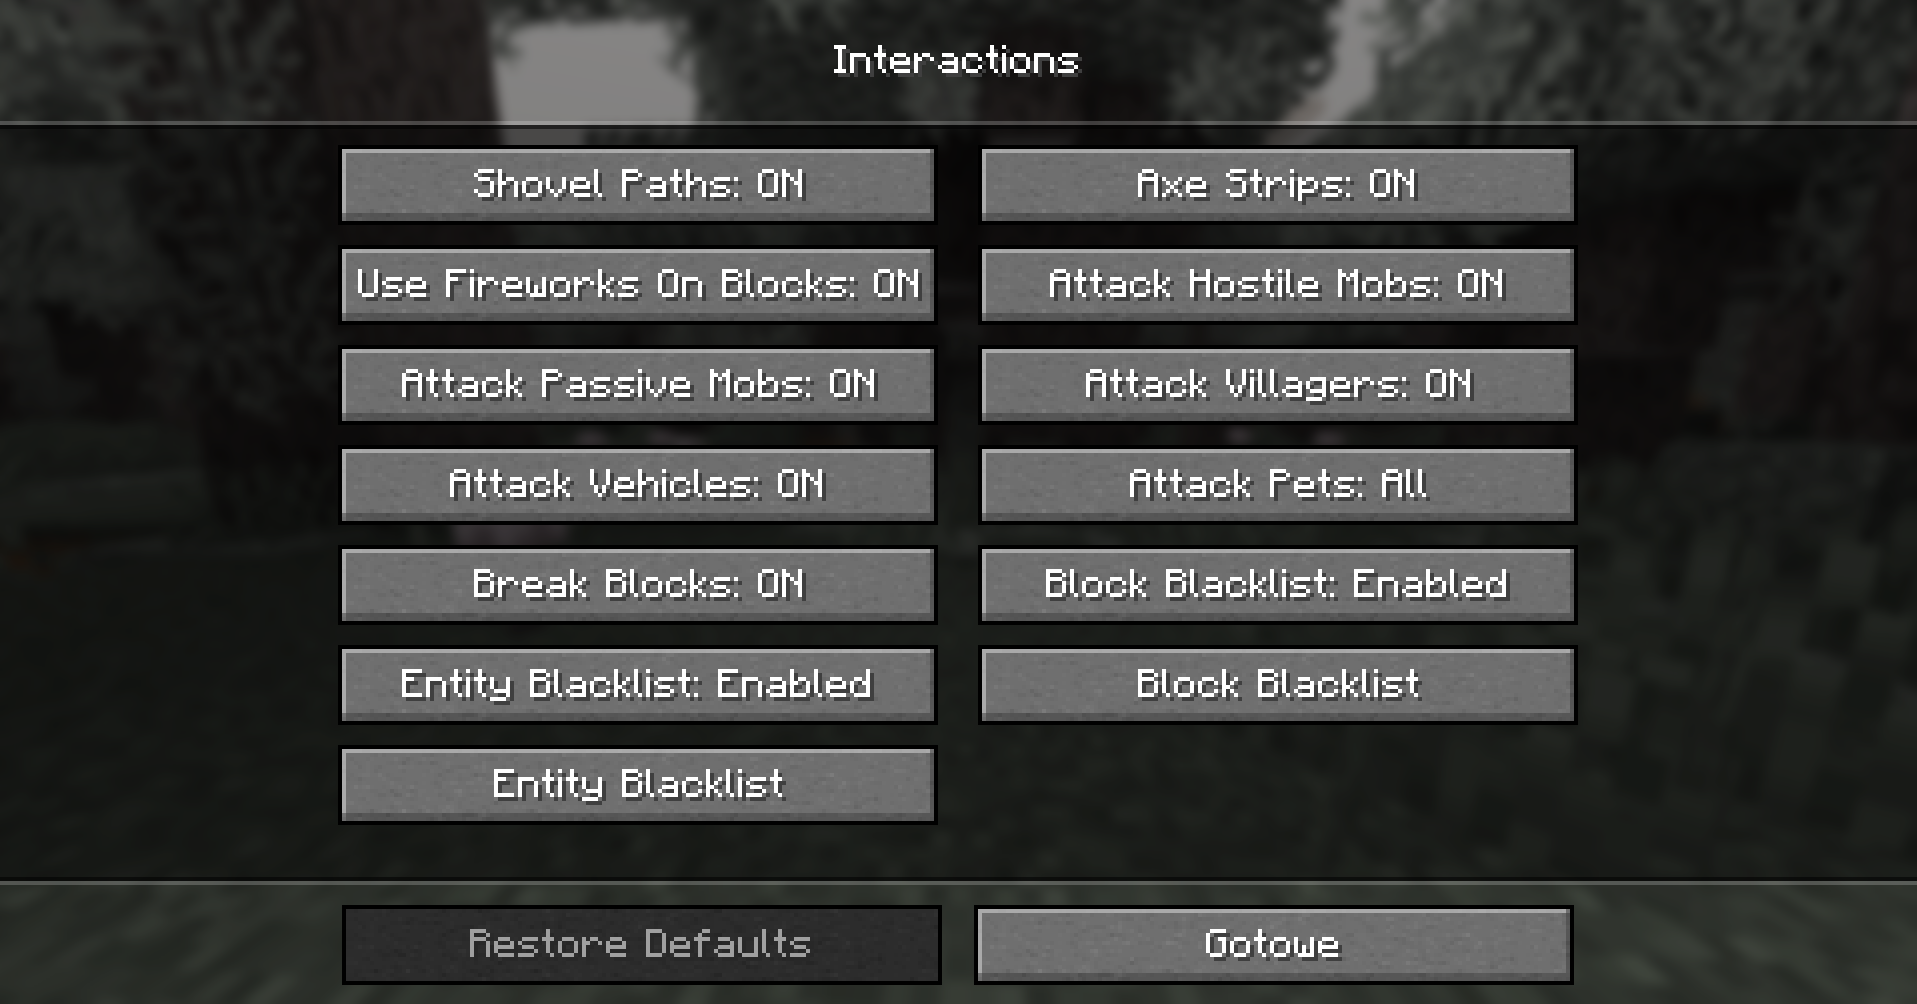
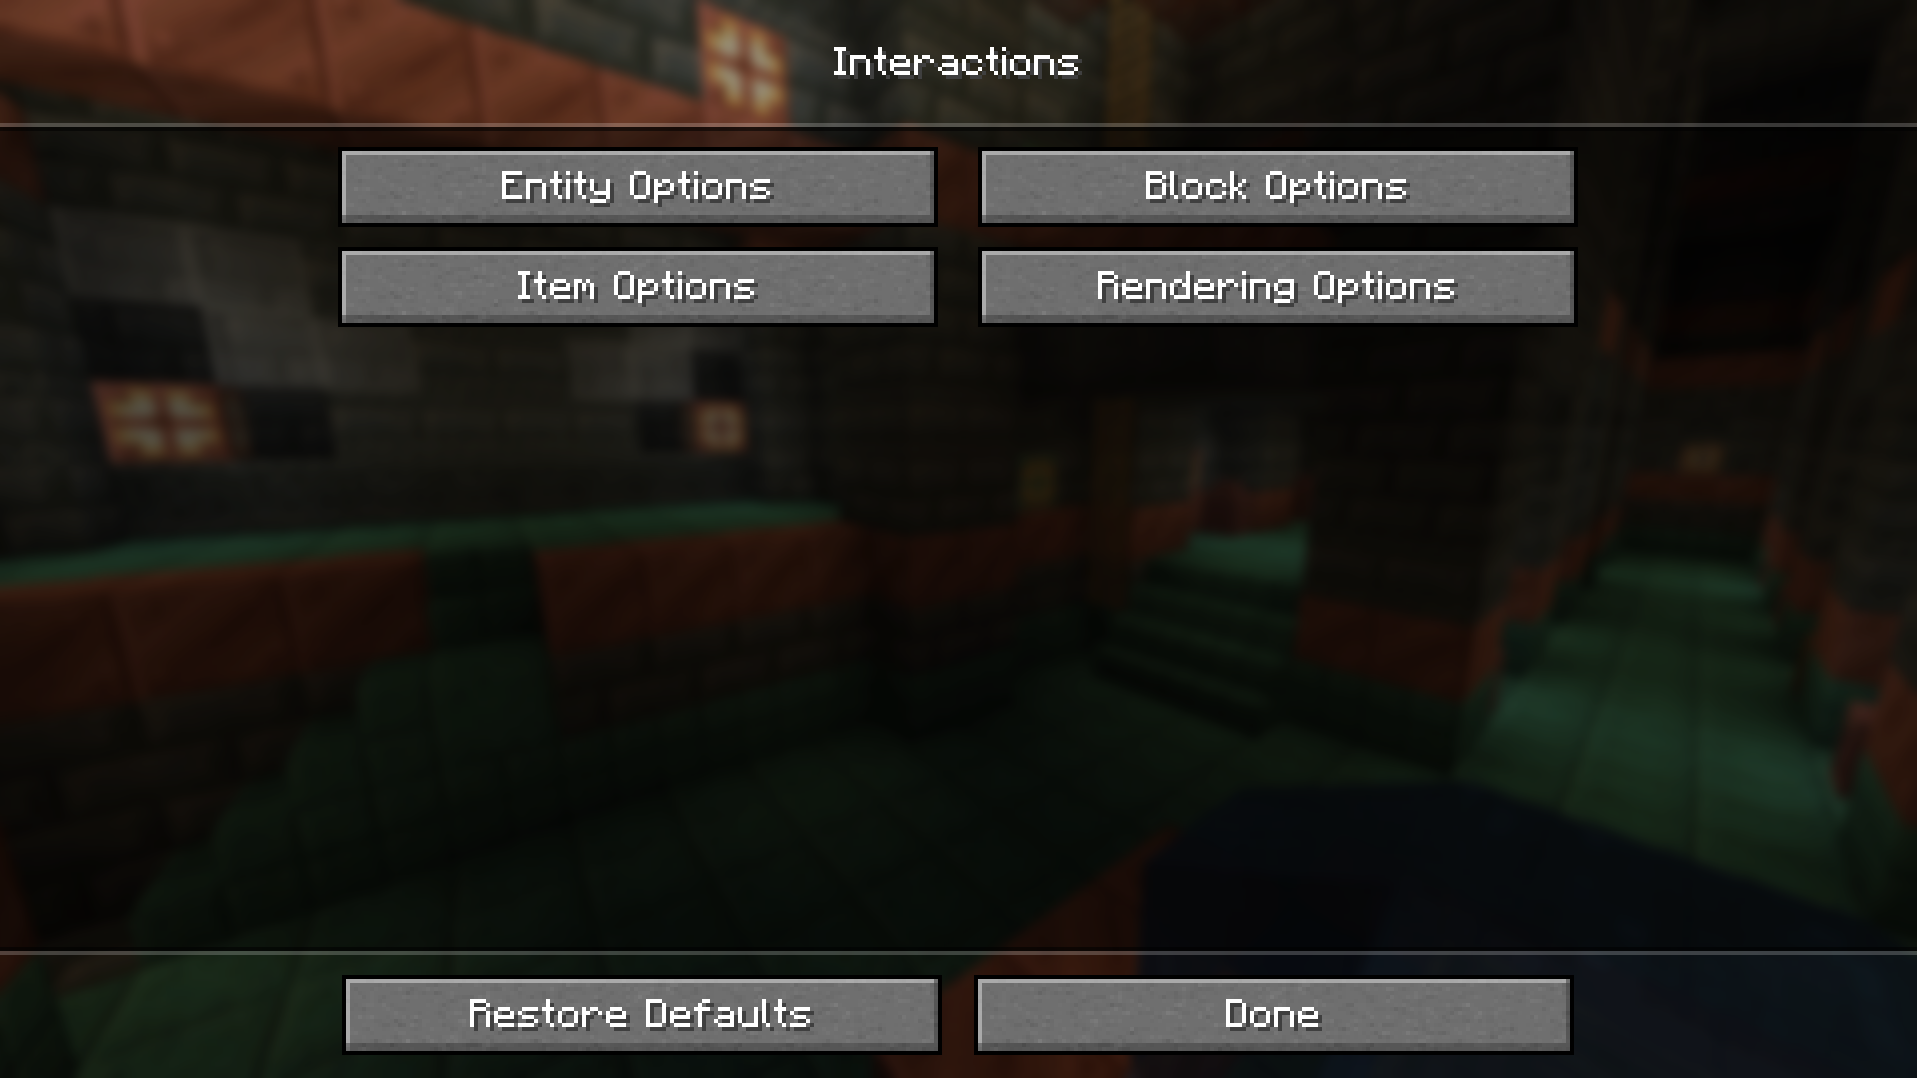
docs: update README

diff --git a/README.md b/README.md
@@ -2,25 +2,51 @@
 
 ![Screenshot of the Interactions Menu, showing the available options.](res/interactions_menu.png)
 
-Interaction Manager is a client side mod allowing you to toggle certain block and mob interactions.
+Interaction Manager is a client side mod allowing you to toggle certain block, item and mob interactions.
 This mod aims to streamline the player experience, as some may find many vanilla features annoying or unnecessary.
-By default, vanilla behaviour is preserved.
+By default, vanilla behavior is preserved.
 
-### Simply Enable or Disable
-- Shovels creating paths
-- Axes stripping blocks
-- Fireworks working on blocks
-- Attacking hostile mobs (zombies skeletons)
-- Attacking passive mobs (cows, pigs)
-- Attacking villagers 
-- Attacking vehicles (boats, minecarts)
+### Entity Options
+- Attacking players
+- Attacking hostile mobs
+- Attacking passive mobs
+- Attacking villagers
+- Attacking vehicles
+- Attacking pets
+- Sweeping-edge protection
+- Interacting with mobs
+- Villager trading
+- Entity deny list (Deny listed entities can't be attacked)
+ 
+### Block Options
 - Breaking blocks
+- Placing blocks
+- Opening (block) GUIs
+- Opening doors
+- Replacing blocks (with offhand)
+- Block deny list (Deny listed blocks can't be broken)
 
-It also gives you the option to stop the player from attacking your pets, others' pets or all tamable mobs.
-You can blacklist blocks, so that you can't break them. And blacklist entities, so that you can't attack them.
+### Item Options
+- Shovels creating paths
+- Axes striping
+- Allow eating
+- Allow drinking potions
+- Dropping items
+- Locking hot bar
+- Item interactions
+   - Search for an item and select it
+   - Toggle interacting with it on blocks or 'in the air,' as in not on blocks
+
+### Rendering Options/Misc
+- Drawing Protected Mobs
+- Draw Protected Blocks
+- Add (`Interactions`) Button
+- Render items, in mod options
+- Animate block replace
+- Draw denied block placement
 
 These options are easily found in the in game `Interactions` menu.
-To access them go to `Options`>`Interactions`
+To access them, go to `Options`>`Interactions`
 
 If Mod Menu is installed, by default the `Interactions` button is hidden. And the settings can be accessed using Mod Menu.
 To show the `Interacions` button if Mod Menu is installed see the [Config Section](#config).
@@ -35,22 +61,13 @@ To show the `Interacions` button if Mod Menu is installed see the [Config Sectio
 <details>
 <summary> Expand Configuration Information </summary>
 
-#### If you don't intend to change more advanced options feel free to skip this section.
-**Options related to player behaviour (block and mob interactions) are accessible in the in game options menu.**
+#### If you don't intend to change more advanced options, feel free to skip this section.
+**Options related to player behavior (block and mob interactions) are accessible in the in game options menu.**
 
 The configuration file allows for more fine-tuning and isn't strictly necessary to edit.
 It's located in `config/interactionmanager.json`.
-It's stored in JSON, which is easy to read and modify.
-
-### Options only available in the config file
-1. `should_add_interactions_button` - The mod settings can be opened using Mod Menu, as such this option controls if the button should be added.
-   - `always` - Always show the `Interactions` button.
-   - *default* `only_if_mod_menu_is_not_installed` - Hide the `Interactions` button if mod menu is installed.
-   - `never` - Hide the `Interactions` button.
-2. `render_items_in_block_blacklist` - Change if block icons should be rendered in the blacklist menu.
-   - *default* `true` - Will render block icons in the block blacklist.
-   -  `false` - Won't render block icons in the block blacklist.
-
+It's stored in JSON, which is straightforward to read and modify.
+Currently, all config options are accessible through the in-game menu.
 </details>
 
 ### [See Change Log](CHANGELOG.md)
